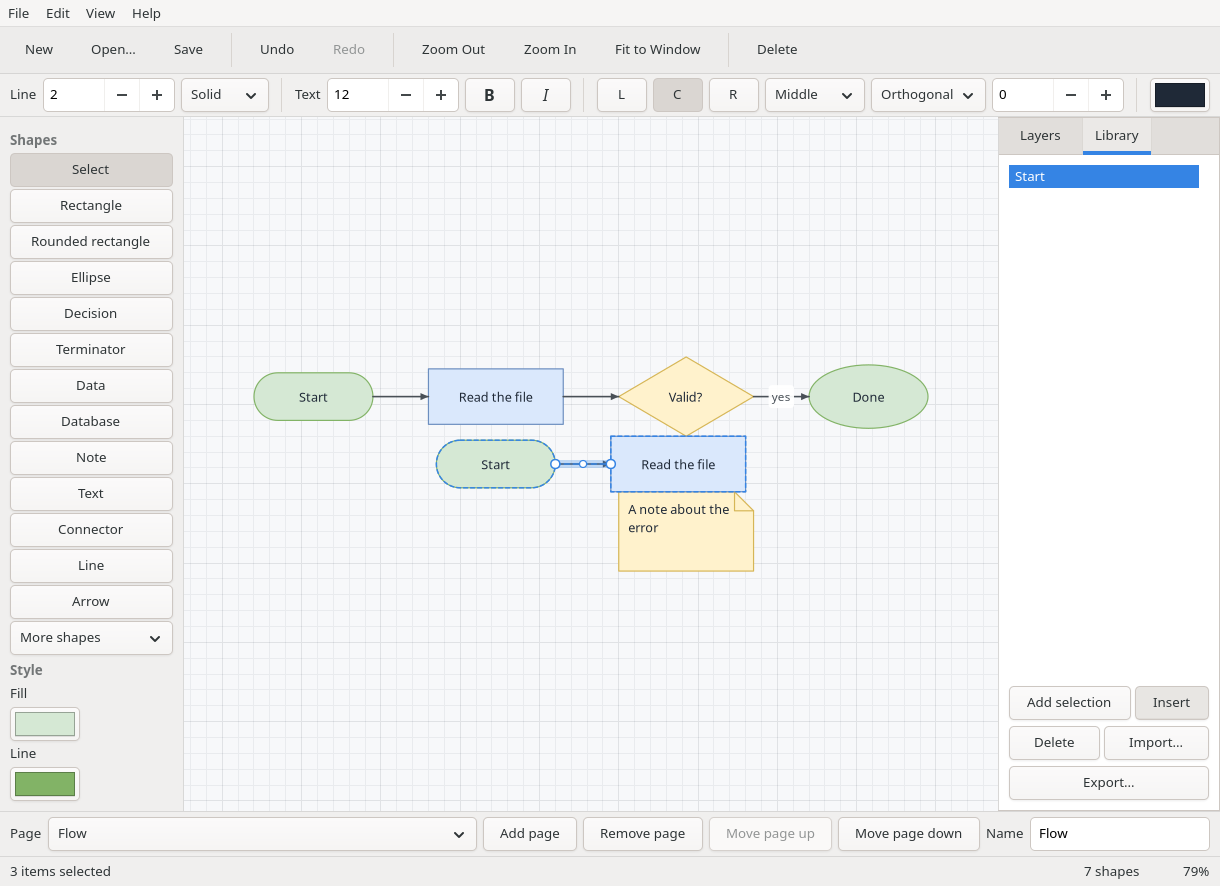
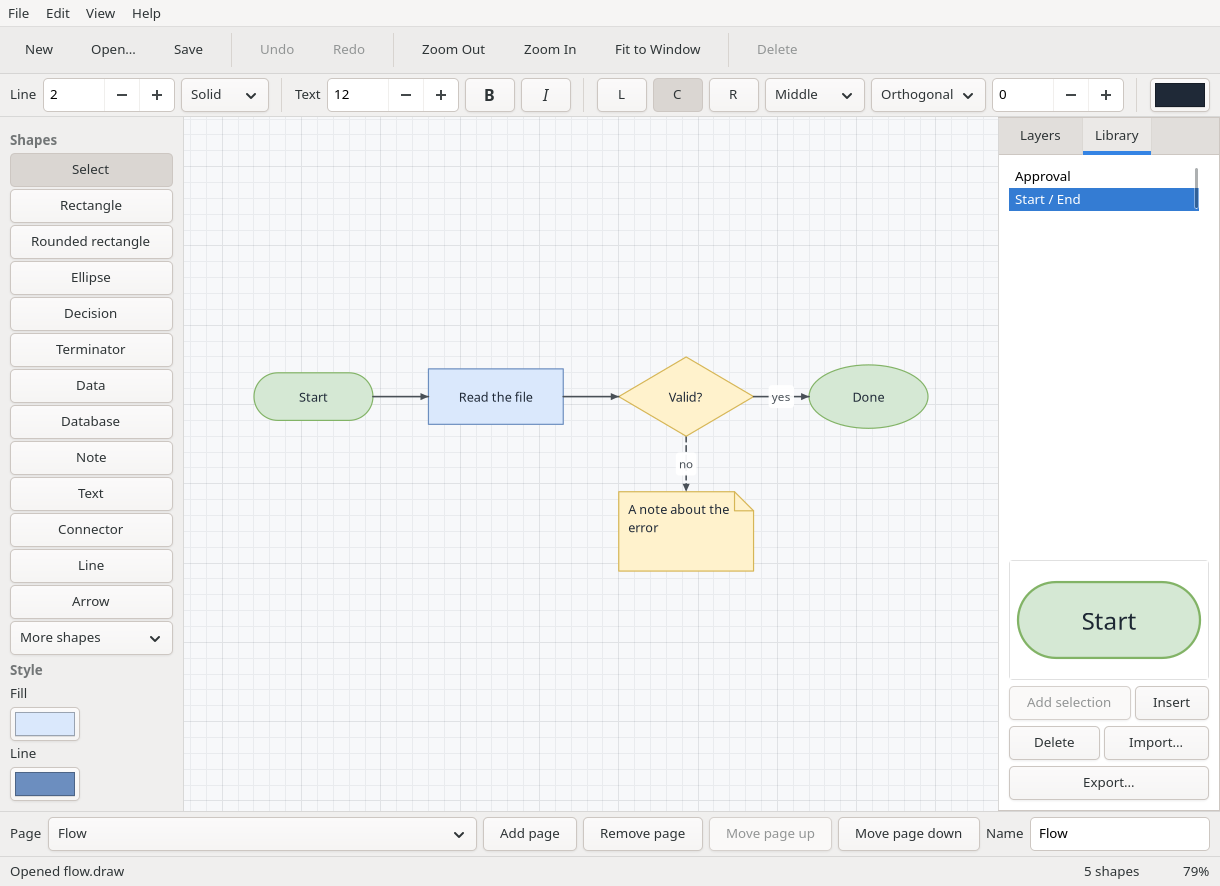
vista previa de la biblioteca de formas
La pestaña Library muestra el sello elegido en un lienzo pequeño: un Diagram temporal recibe el elemento y lo pinta con drawExport, así la vista previa y el lienzo no tienen dos dibujantes. El área avisa cuando no hay elemento y se actualiza al elegir, agregar, borrar o importar.

diff --git a/MainForm.js b/MainForm.js
@@ -2289,6 +2289,41 @@ export class MainForm extends Form {
             this.LstLibrary.Index = select;
         this.syncingLibrary = false;
         this.refreshLibraryButtons();
+        this.refreshLibraryPreview();
+    }
+
+    /* A preview is a page nobody saved: the stamp inserted at the centre of a
+     * scratch diagram puts every piece back where the item keeps it. */
+    libraryPreviewDiagram() {
+        if (!this.library || !this.LstLibrary) return null;
+        const index = this.LstLibrary.Index;
+        if (index < 0 || index >= this.library.items.length) return null;
+        const item = this.library.items[index];
+        const preview = new Diagram();
+        this.library.insert(preview, index, item.w / 2, item.h / 2,
+                            preview.layers[0].id);
+        return preview;
+    }
+
+    refreshLibraryPreview() {
+        if (this.LibraryPreview) this.LibraryPreview.Redraw();
+    }
+
+    LibraryPreview_Draw(p, width, height) {
+        p.Color = "#ffffff";
+        p.Rectangle(0, 0, width, height);
+        p.Fill();
+
+        const preview = this.libraryPreviewDiagram();
+        if (!preview) {
+            const text = Locale.Text("No item selected");
+            p.Color = "#6e7781";
+            p.Font = "Sans 11";
+            p.Text(text, (width - p.TextWidth(text)) / 2,
+                   (height - p.TextHeight(text)) / 2);
+            return;
+        }
+        drawExport(p, preview, width, height, 8);
     }
 
     refreshLibraryButtons() {
@@ -2304,6 +2339,7 @@ export class MainForm extends Form {
     LstLibrary_Select() {
         if (this.syncingLibrary) return;
         this.refreshLibraryButtons();
+        this.refreshLibraryPreview();
     }
 
     LstLibrary_Activate() { this.insertLibraryItem(); }

diff --git a/tests/selfcheck/TestForm.js b/tests/selfcheck/TestForm.js
@@ -1172,6 +1172,10 @@ class TestForm extends Form {
         fm.select([]);
         fm.LstLibrary.Index = 0;
         fm.refreshLibraryButtons();
+        this.eq("library: the preview builds the stamp",
+                fm.libraryPreviewDiagram().shapes.length, 2);
+        this.eq("library: and its connector",
+                fm.libraryPreviewDiagram().edges.length, 1);
         const before = fm.doc.shapes.length;
         fm.BtnLibraryInsert_Click();
         this.eq("library: insert adds both shapes",
@@ -1232,6 +1236,8 @@ class TestForm extends Form {
         fm.LstLibrary.Index = 0;
         fm.BtnLibraryDelete_Click();
         this.eq("library: delete empties it", fm.library.items.length, 0);
+        this.eq("library: and the preview goes quiet",
+                fm.libraryPreviewDiagram(), null);
     }
 
     confirmDialog() {
@@ -1288,6 +1294,7 @@ class TestForm extends Form {
             BtnLayerAssign: ["Click"],
             TxtLayerName: ["Activate", "LostFocus"],
             LstLibrary: ["Select", "Activate"],
+            LibraryPreview: ["Draw"],
             BtnLibraryAdd: ["Click"], BtnLibraryInsert: ["Click"],
             BtnLibraryDelete: ["Click"], BtnLibraryImport: ["Click"],
             BtnLibraryExport: ["Click"],

diff --git a/Render.js b/Render.js
@@ -671,7 +671,7 @@ export function drawCanvas(p, diagram, view, width, height) {
     p.Pop();
 }
 
-export function drawExport(p, diagram, width, height) {
+export function drawExport(p, diagram, width, height, padding) {
     p.Color = "#ffffff";
     p.Rectangle(0, 0, width, height);
     p.Fill();
@@ -679,7 +679,7 @@ export function drawExport(p, diagram, width, height) {
     const bounds = diagram.bounds();
     if (!bounds) return;
 
-    const pad = 28;
+    const pad = padding === undefined ? 28 : padding;
     const zoom = Math.min((width - pad * 2) / Math.max(1, bounds.w),
                           (height - pad * 2) / Math.max(1, bounds.h), 4);
     const safe = Math.max(0.01, zoom);

diff --git a/app.css b/app.css
@@ -46,3 +46,9 @@
     background: rgba(0, 0, 0, 0.02);
     border-bottom: 1px solid rgba(0, 0, 0, 0.10);
 }
+
+.draw-preview {
+    background: #ffffff;
+    border: 1px solid rgba(0, 0, 0, 0.12);
+    border-radius: 4px;
+}

diff --git a/README.md b/README.md
@@ -35,11 +35,11 @@ The window is started with a blank canvas and the shape palette on the left.
   references, loop limit and manual operation. Pick one and click for the
   default size or drag to size it.
 - **Shape library** — the **Library** tab saves the current selection as a
-  reusable stamp, inserts it at the centre of the view, and deletes it. The
-  library lives in the application's config directory and can be exported as
-  `.btlib`. **Import** accepts a `.btlib`, a `.draw`, an uncompressed
-  `.drawio`/XML diagram, or a draw.io `.mxlibrary` with uncompressed `xml`
-  entries.
+  reusable stamp, shows it in a preview, inserts it at the centre of the view,
+  and deletes it. The library lives in the application's config directory and
+  can be exported as `.btlib`. **Import** accepts a `.btlib`, a `.draw`, an
+  uncompressed `.drawio`/XML diagram, or a draw.io `.mxlibrary` with
+  uncompressed `xml` entries.
 - **Connectors** — the connector tool, dragged from one shape to another,
   produces an orthogonal route that follows both shapes when they move or
   resize. Connectors can be labelled and can be dashed.

diff --git a/AGENTS.md b/AGENTS.md
@@ -58,7 +58,8 @@ BINTANA=/path/to/build/bintana tests/run.sh
   subtracts the top-left corner, keeps shape ids for its own edges, and
   `insert` remaps those ids and every group id into the target page. The
   library is UI state under `Application.ConfigDirectory`, not part of the
-  document and not undoable.
+  document and not undoable. The preview is a scratch `Diagram` built the same
+  way, so it renders with `drawExport` instead of a second painter.
 - **The right panel is a Notebook now.** `LayersPage` and `LibraryPage` are
   sibling pages; controls keep their names, but a new right-side panel must be
   added as a page rather than as another sibling of `RightTabs`.
